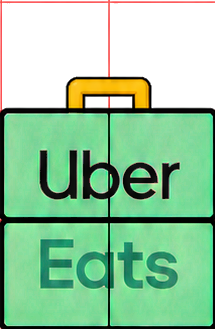
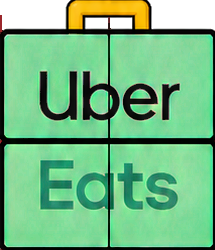
Bag: remove red grid lines, adjust handle overhang, v10

diff --git a/index.html b/index.html
@@ -314,7 +314,7 @@
   const KEYS = ["I", "O", "L", "S", "T", "AV", "TR", "SH"];  // common shuffle bag (BN banana + BB parcel removed for now)
   const SPRITE_SRC = {
     sub: "assets/sub.png?v=9",
-    ubereats: "assets/ubereats.png?v=9",
+    ubereats: "assets/ubereats.png?v=10",
     banana: "assets/banana.png?v=9",
     eggs: "assets/eggs.png?v=9",
     groceries: "assets/groceries.png?v=9",
@@ -591,7 +591,7 @@
 
   // draw a piece as uniform square tiles: art sliced per cell (no bleed into empty cells), each
   // solid cell backed by the food's own colour (no field-green gaps), no handle overhang.
-  const HANDLE_FRAC = { ubereats: 0.343 };   // bag handle overhangs above its 2x2 body
+  const HANDLE_FRAC = { ubereats: 0.136 };   // bag handle overhangs above its 2x2 body
   const OUTLINE = u => Math.max(2, u * 0.075);   // outer outline width (internal divisions = 1/3 of this)
   function outlineCells(ctx, cells, ox, oy, unit) {   // thin internal cell divisions, full-weight outer silhouette
     const rows = cells.length, cols = cells[0].length;
